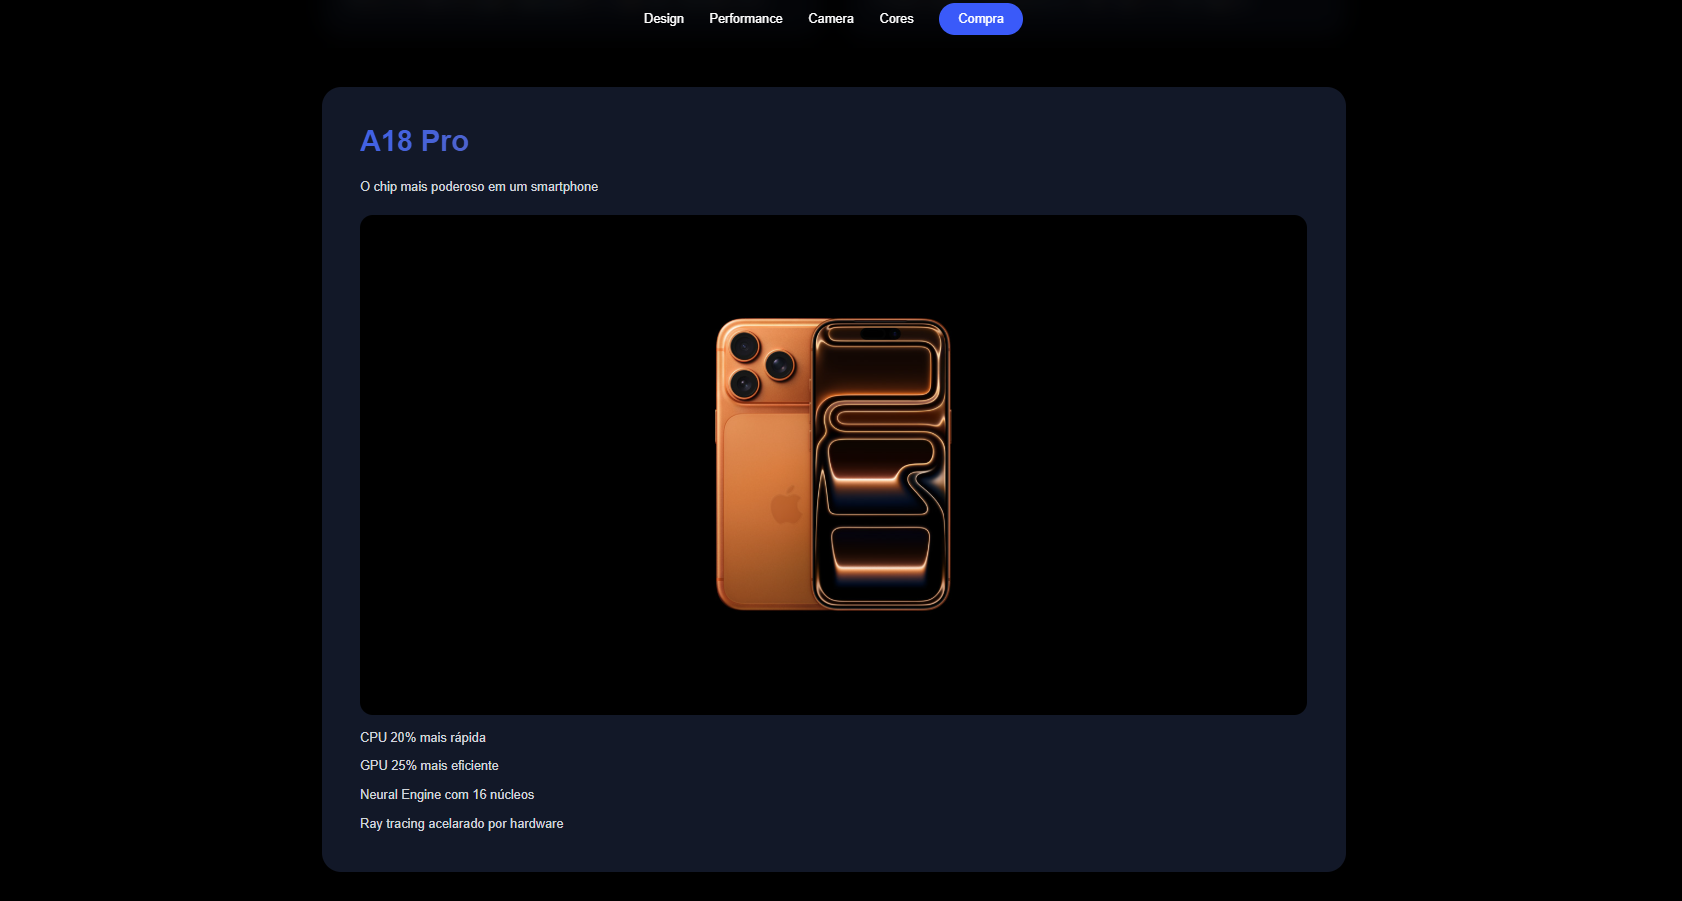
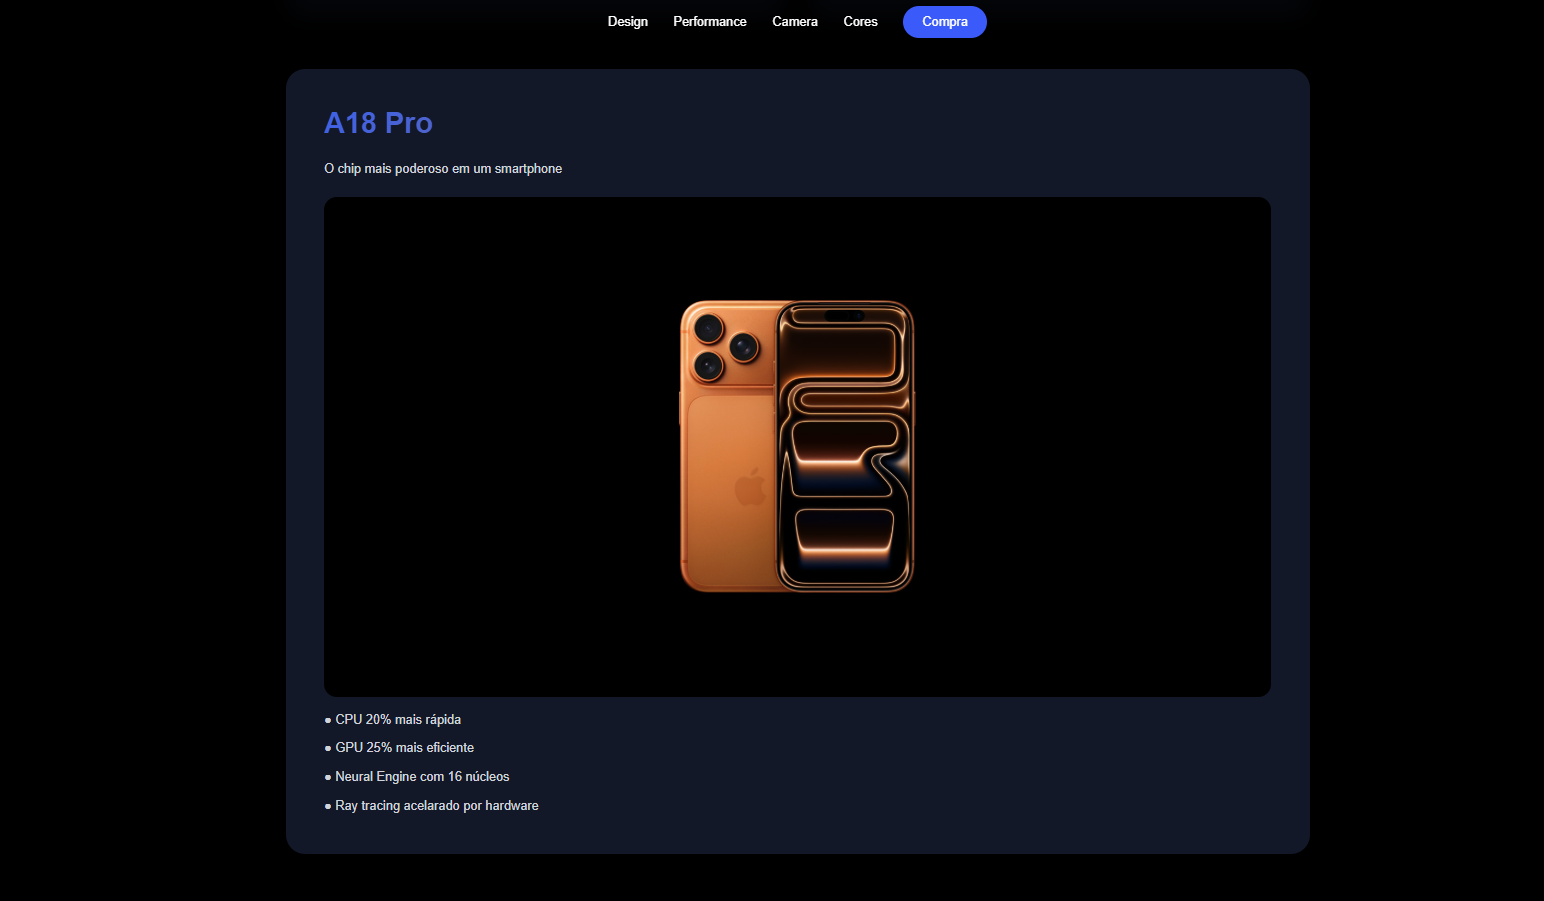
[FEAT] Adjusted information

Changed region(s): [[0.1865, 0.0, 0.8705, 0.9945], [0.4041, 0.3108, 0.5907, 0.6837]]

diff --git a/src/components/Colors.jsx b/src/components/Colors.jsx
@@ -93,12 +93,12 @@ function Colors() {
               className="bg-gradient-to-br from-gray-900 to-transparent rounded-3xl p-8 border border-gray-800"
             >
               <div className="text-4xl mb-4">📱</div>
-              <h3 className="text-2xl font-bold mb-3">{model.name}</h3>
-              <p className="text-gray-400 mb-4">{model.screen}</p>
+              <h3 className="text-2xl font-bold mb-3">{model.id}</h3>
+              <p className="text-gray-400 mb-4">● {model.screen}</p>
               <ul className="space-y-2 text-gray-300">
-                <li>{model.storage}</li>
-                <li>{model.battery}</li>
-                <li>{model.weight}</li>
+                <li>● {model.storage}</li>
+                <li>● {model.battery}</li>
+                <li>● {model.weight}</li>
               </ul>
             </div>
           ))}

diff --git a/src/components/Highlights.jsx b/src/components/Highlights.jsx
@@ -47,10 +47,10 @@ function Highlights() {
           />
 
           <ul className="space-y-3 text-gray-300">
-            <li>CPU 20% mais rápida</li>
-            <li>GPU 25% mais eficiente</li>
-            <li>Neural Engine com 16 núcleos</li>
-            <li>Ray tracing acelarado por hardware</li>
+            <li>● CPU 20% mais rápida</li>
+            <li>● GPU 25% mais eficiente</li>
+            <li>● Neural Engine com 16 núcleos</li>
+            <li>● Ray tracing acelarado por hardware</li>
           </ul>
         </div>
 

diff --git a/src/components/NavBar.jsx b/src/components/NavBar.jsx
@@ -14,7 +14,7 @@ function NavBar() {
         <a href="#cores" className="hover:text-gray-300">
           Cores
         </a>
-        <button className="bg-blue-600 hover:bg-blue-700 px-6 py-2 rounded-full">
+        <button className="bg-blue-600 hover:bg-blue-700 px-6 py-2 rounded-full cursor-pointer">
           Compra
         </button>
       </div>

diff --git a/README.md b/README.md
@@ -90,4 +90,4 @@ npm run build
 
 ## Autor
 
-Desenvolvido por Matheus Silva.
+Desenvolvido por Matheus Alberto.
